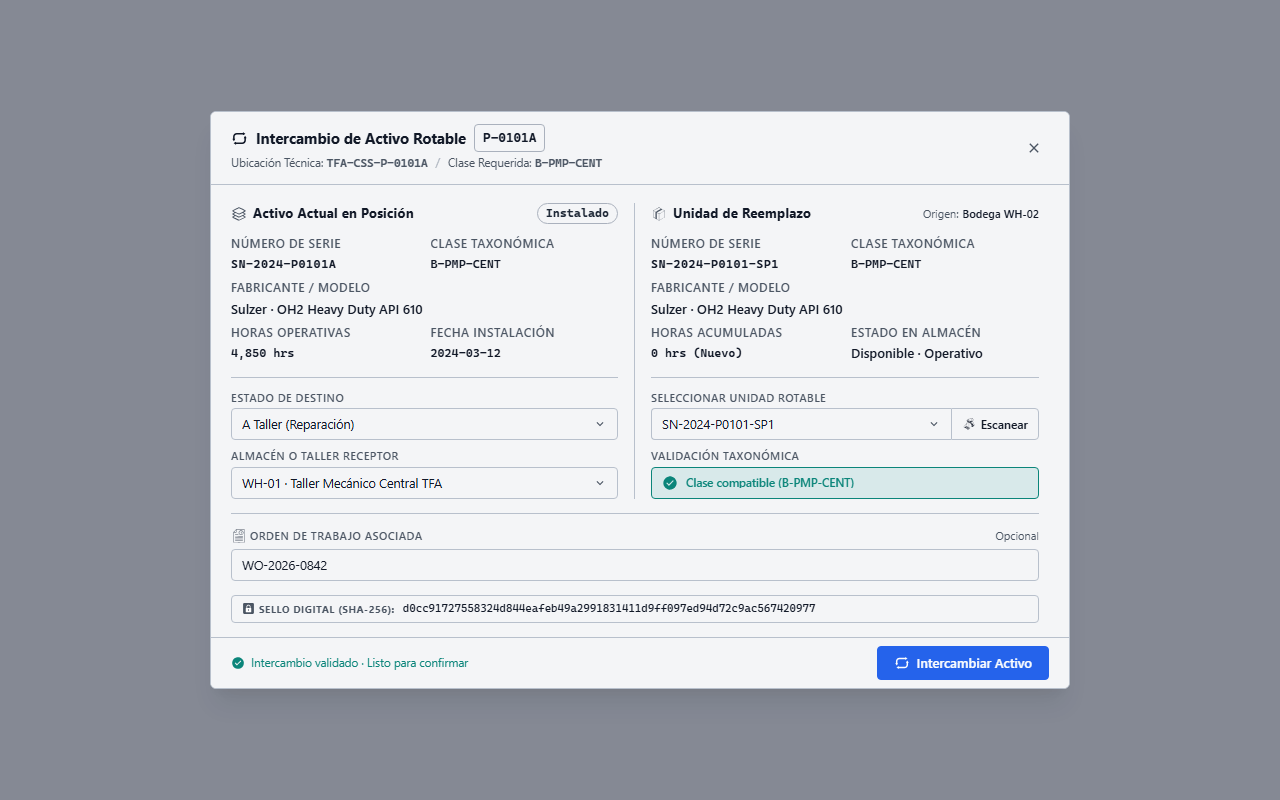
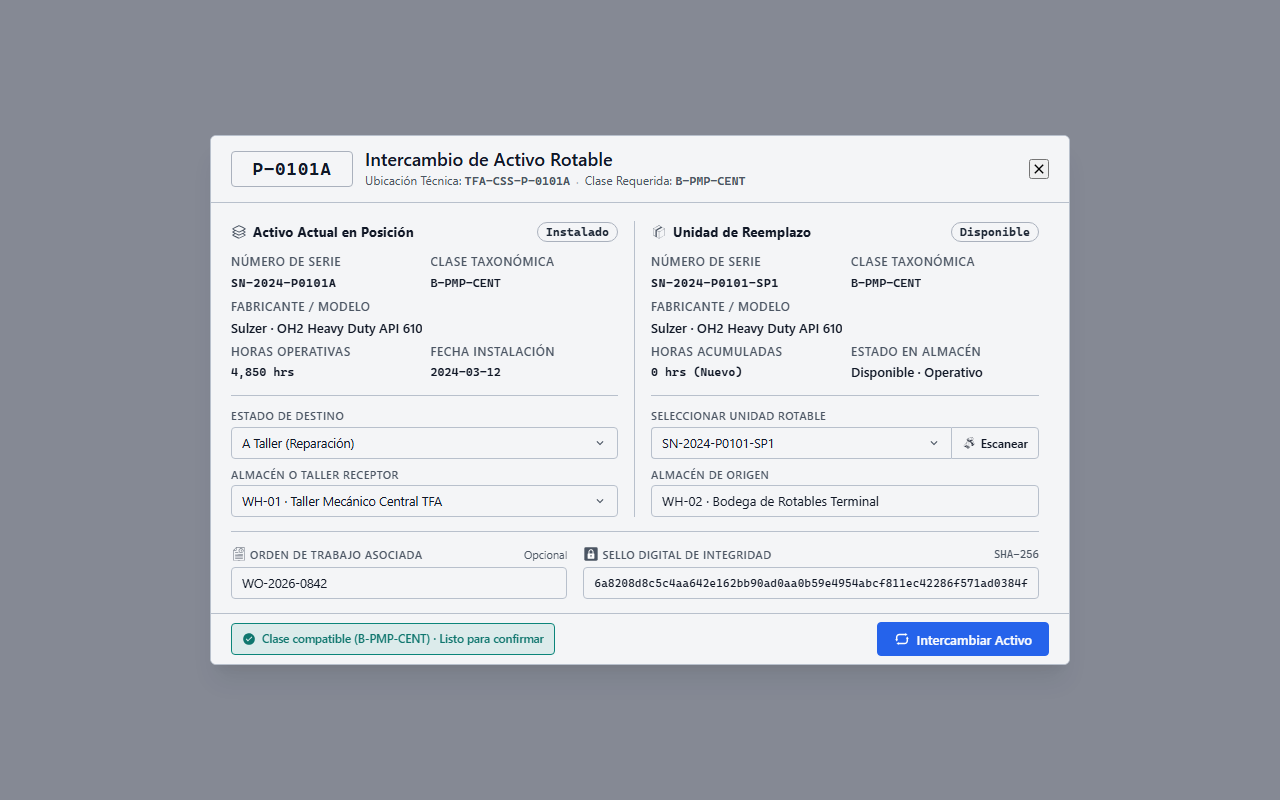
docs(ui-ux): refine SCR-INV-025 spec and sync 1280x800 visual artifacts

Changed region(s): [[0.1562, 0.125, 0.8438, 0.875], [0.6562, 0.25, 0.8125, 0.375]]

diff --git a/ui-ux/screens/inv/SCR-INV-025.md b/ui-ux/screens/inv/SCR-INV-025.md
@@ -39,7 +39,7 @@ status: Stable
 ### 2.1. Rotable Asset Swap Modal (Dark Theme)
 ![SCR-INV-025 Rotable Asset Swap](assets/SCR-INV-025-screenshot.png)
 
-> *Note: Production UI prototype capture illustrating the centered rotable asset swap modal at 1280×800 in Dark Theme. Exhibits the continuous two-column comparative split (Dismounted Asset on the left vs. Replacement Asset on the right with Key-Top / Value-Bottom modular metadata grids), confirmed taxonomic compatibility badge (CMP-06), Work Order linkage (CMP-07), live SHA-256 integrity seal (CMP-08), and primary commit trigger (CMP-09).*
+> *Note: Production UI prototype capture illustrating the centered rotable asset swap modal at 1280×800 in Dark Theme. Exhibits the continuous two-column comparative split (Dismounted Asset on the left vs. Replacement Asset on the right with Key-Top / Value-Bottom modular metadata grids), dual-column auxiliary row with Work Order linkage (CMP-07) and subtle SHA-256 integrity seal (CMP-08), and grounded commit trigger (CMP-09) paired with taxonomic compatibility badge (CMP-06).*
 
 ### 2.2. Rotable Asset Swap Modal (Light Theme)
 ![SCR-INV-025 Rotable Asset Swap Light](assets/SCR-INV-025-light.png)
@@ -54,15 +54,15 @@ status: Stable
 
 | ID | Control / Component | Visual Role / Content | Semantic Token | Architectural Role & Reference |
 | :--- | :--- | :--- | :--- | :--- |
-| `CMP-01` | Modal Container & Header | Modal shell & navigation header | Surface: `--dt-color-surface-card`<br>Border: `--dt-color-border-subtle`<br>Elevation: `--dt-z-modal` | Hosts title ("Intercambio de Activo Rotable"), Functional Location tag, Equipment Class badge, and dismissal control. Operates as a centered modal dialog across workstation and tablet portrait viewports. Detailed in §5.2 and §8. |
+| `CMP-01` | Modal Container & Header | Modal shell & navigation header | Surface: `--dt-color-surface-card`<br>Border: `--dt-color-border-subtle`<br>Elevation: `--dt-z-modal` | Hosts tag headline box (`.tag-headline-box`) on the left, modal title ("Intercambio de Activo Rotable"), technical metadata subtitle ("Ubicación Técnica: TFA-CSS-P-0101A · Clase Requerida: B-PMP-CENT"), and dismissal control. Operates as a centered modal dialog across workstation and tablet portrait viewports. Detailed in §5.2 and §8. |
 | `CMP-02` | Dismounted Asset Card | Currently installed machine card | Surface: `--dt-color-surface-card`<br>Border: None<br>Radius: `--dt-radius-none` | Displays mounted asset details including Status pill (`Instalado`), Serial Number (`Número de serie`), Equipment Class, Manufacturer/Model, Operating Hours, and Installation Date in a 2-column key-value grid symmetrically aligned with `CMP-04`. Hosts mandatory destination controls (`CMP-03`). Detailed in §5.1. |
 | `CMP-03` | Destination Status & Warehouse Controls | Status selector and warehouse picker | Surface: `--dt-color-surface-card`<br>Border: `--dt-color-border-subtle` | Dropdown pair capturing post-dismount destination status (`Estado de Destino`: `A Taller (Reparación)`, `A Almacén (Operativo)`, `Para Baja Técnica`) and target storage warehouse (`Almacén o Taller Receptor`). Blocks submission if left unassigned. Detailed in §5.1, §5.3.2, and §7.2.3. |
-| `CMP-04` | Replacement Asset Card | Replacement rotable picker card | Surface: `--dt-color-surface-card`<br>Border: None<br>Radius: `--dt-radius-none` | Displays replacement equipment specs (Serial Number / `Número de serie`, Equipment Class, Manufacturer/Model, Accumulated Hours, Warehouse Status) row-for-row aligned with `CMP-02`. Hosts clean serial selector dropdown (`CMP-04`), optical scan trigger (`CMP-05`), and taxonomic compatibility badge (`CMP-06`). Detailed in §5.1. |
+| `CMP-04` | Replacement Asset Card | Replacement rotable picker card | Surface: `--dt-color-surface-card`<br>Border: None<br>Radius: `--dt-radius-none` | Displays replacement equipment specs (Serial Number / `Número de serie`, Equipment Class, Manufacturer/Model, Accumulated Hours, Warehouse Status) row-for-row aligned with `CMP-02`. Hosts serial selector dropdown (`CMP-04`), optical scan trigger (`CMP-05`), and read-only origin warehouse display (`Almacén de Origen`). Detailed in §5.1. |
 | `CMP-05` | Barcode / NFC Scan Trigger | Tactile camera/scanner button | Surface: `--dt-color-surface-card`<br>Border: `--dt-color-border-subtle`<br>Touch Target: `--dt-touch-target-mobile` | Activates camera-based barcode scanning or Web NFC reader to instantly select the replacement unit by physical asset barcode tag. Viewfinder overlay includes simulation action button `[Simular Lectura de Código]`. Docked with replacement dropdown in unified addon group. Detailed in §5.2.3 and §7.3. |
-| `CMP-06` | Taxonomic Compatibility Indicator | Real-time validation badge | Dynamic Surface: `--dt-color-surface-card` (neutral), `--dt-color-state-success` (compatible), or `--dt-color-alarm-critical` (incompatible) | Validates that replacement unit matches the exact `EquipmentClassId` of the Functional Location and is currently in warehouse storage status (`Clase compatible (B-PMP-CENT)`). Rejects mismatches (`Incompatible: Clase B-PMP-REC (requiere B-PMP-CENT)`) or unavailable units (`No disponible: Unidad en mantenimiento`). Sized with fixed control height (32px) to prevent layout shifts. Detailed in §5.3.1. |
-| `CMP-07` | Work Order Linkage Field | Optional justifying WO input | Surface: `--dt-color-surface-card`<br>Border: `--dt-color-border-subtle` | Searchable input linking the equipment swap transaction to a justifying work order (`Orden de Trabajo Asociada`), captioned `Opcional`. Detailed in §5.1. |
-| `CMP-08` | Cryptographic Audit Hash Strip | Chained SHA-256 preview strip | Surface: `--dt-color-surface-card`<br>Font: `--dt-font-mono-data`<br>Border: `--dt-color-border-subtle` | Displays real-time generated SHA-256 hash chaining payload, visualizing the immutable cryptographic audit record dispatched with the transaction. Displays `—` (em-dash) when unselected. Detailed in §5.3.3. |
-| `CMP-09` | Atomic Commit Action Button | Primary transactional confirm button | Surface: `--dt-color-state-info`<br>Disabled Surface: `--dt-color-state-disabled` | Primary action `[Intercambiar Activo]`. Coupled with dynamic footer status pill displaying validation state (`Intercambio validado · Listo para confirmar`, `Seleccione estado de destino y almacén receptor`, or `Seleccione unidad de reemplazo y destino del activo actual`). Enforces single-commit atomic execution; disabled until all taxonomic and destination constraints are satisfied. Detailed in §5.3.4. |
+| `CMP-06` | Taxonomic Compatibility Indicator | Real-time validation badge | Dynamic Surface: `--dt-color-surface-card` (neutral), `--dt-color-state-success` (compatible), `--dt-color-alarm-warning` (warning), or `--dt-color-alarm-critical` (incompatible) | Validates that replacement unit matches the exact `EquipmentClassId` of the Functional Location and is currently in warehouse storage status (`Clase compatible (B-PMP-CENT)`). Rejects mismatches (`Incompatible: Clase B-PMP-REC (requiere B-PMP-CENT)`) or unavailable units (`Incompatible: Unidad en mantenimiento`). Grounded directly in the modal footer adjacent to `CMP-09` to serve as the immediate validation gate. Detailed in §5.3.1. |
+| `CMP-07` | Work Order Linkage Field | Optional justifying WO input | Surface: `--dt-color-surface-card`<br>Border: `--dt-color-border-subtle` | Searchable input linking the equipment swap transaction to a justifying work order (`Orden de Trabajo Asociada`), captioned `Opcional`. Arranged side-by-side with `CMP-08` in a 2-column auxiliary grid. Detailed in §5.1. |
+| `CMP-08` | Cryptographic Audit Hash Box | Subtle SHA-256 preview box | Surface: `--dt-color-surface-card`<br>Font: `--dt-font-mono-data`<br>Border: `--dt-color-border-subtle` | Displays real-time generated SHA-256 hash chaining payload in a subtle single-line container (`Sello Digital de Integridad`), visualizing the immutable cryptographic audit record dispatched with the transaction. Displays `—` (em-dash) when unselected. Detailed in §5.3.3. |
+| `CMP-09` | Atomic Commit Action Button | Primary transactional confirm button | Surface: `--dt-color-state-info`<br>Disabled Surface: `--dt-color-state-disabled` | Primary action `[Intercambiar Activo]`. Coupled with adjacent taxonomic validation badge (`CMP-06`). Enforces single-commit atomic execution; disabled until all taxonomic and destination constraints are satisfied. Detailed in §5.3.4. |
 | `CMP-10` | Modal Close & Dismiss Action | Header close icon button and Escape shortcut | Surface: Transparent (`--dt-color-surface-card`)<br>Border: None<br>Color: `--dt-color-text-muted` | Safely dismisses the modal without committing changes, unblocking the host screen without altering database configuration or location links. Detailed in §5.2. |
 
 ---
@@ -71,11 +71,11 @@ status: Stable
 
 | State | Visual Modification in the Interface | Activation Condition |
 | :--- | :--- | :--- |
-| **Normal / Default** | Modal open over backdrop. Dismounted asset details populated with `Instalado` status pill. Destination dropdowns unselected. Replacement asset selector empty. Cryptographic hash strip `CMP-08` displays `—`. Footer status pill displays *"Seleccione unidad de reemplazo y destino del activo actual"*. `CMP-09` is disabled (`--dt-color-state-disabled`). | User triggers "Asset Swap" from Functional Location detail or Work Order panel. |
+| **Normal / Default** | Modal open over backdrop. Dismounted asset details populated with `Instalado` status pill. Destination dropdowns unselected. Replacement asset selector empty. Cryptographic hash box `CMP-08` displays `—`. Footer validation badge `CMP-06` displays *"Esperando selección de activo..."*. `CMP-09` is disabled (`--dt-color-state-disabled`). | User triggers "Asset Swap" from Functional Location detail or Work Order panel. |
 | **Scanning Barcode / NFC** | Modal displays camera viewfinder overlay with scanning reticle and action button *"Simular Lectura de Código"*. Status text: *"Alinee la etiqueta del activo rotable dentro de la retícula..."* | Technician taps `CMP-05` on mobile tablet or workstation with barcode reader. |
-| **Taxonomic Incompatibility (AF-001)** | Replacement asset card highlights with red border (`--dt-color-alarm-critical`). `CMP-06` displays critical badge: *"Incompatible: Clase B-PMP-REC (requiere B-PMP-CENT)"* or *"No disponible: Unidad en mantenimiento"*. `CMP-09` is hard-disabled. | Selected replacement equipment does not share identical `EquipmentClassId` or is not available in warehouse (`AF-001`). |
-| **Incomplete Destination (AF-002)** | Destination fields in `CMP-03` highlight with amber focus outline (`--dt-color-alarm-warning`) and warning icon `#icon-warning`. Footer status pill indicates: *"Seleccione estado de destino y almacén receptor"*. | User attempts to confirm swap without selecting destination status or warehouse (`AF-002`). |
-| **Ready for Execution** | All fields valid. `CMP-06` displays Teal badge: *"Clase compatible (B-PMP-CENT)"*. Hash strip `CMP-08` displays valid SHA-256 preview. Footer status pill displays *"Intercambio validado · Listo para confirmar"*. `CMP-09` becomes active. | Valid replacement asset selected + dismounted asset destination selected + WO linked. |
+| **Taxonomic Incompatibility (AF-001)** | Replacement asset card highlights with red border (`--dt-color-alarm-critical`). Footer validation badge `CMP-06` displays critical alert: *"Incompatible: Clase B-PMP-REC (requiere B-PMP-CENT)"* or *"Incompatible: Unidad en mantenimiento"*. `CMP-09` is hard-disabled. | Selected replacement equipment does not share identical `EquipmentClassId` or is not available in warehouse (`AF-001`). |
+| **Incomplete Destination (AF-002)** | Destination fields in `CMP-03` highlight with amber focus outline (`--dt-color-alarm-warning`) and warning icon `#icon-warning`. Footer validation badge `CMP-06` indicates: *"Seleccione estado de destino y almacén receptor"*. | User attempts to confirm swap without selecting destination status or warehouse (`AF-002`). |
+| **Ready for Execution** | All fields valid. `CMP-06` displays Teal badge: *"Clase compatible (B-PMP-CENT) · Listo para confirmar"*. Hash box `CMP-08` displays valid SHA-256 preview. `CMP-09` becomes active. | Valid replacement asset selected + dismounted asset destination selected + WO linked. |
 | **Executing Atomic Commit** | `CMP-09` renders loading shimmer (`--dt-color-surface-raised`) with label *"Procesando intercambio de activo..."*. All form inputs disabled to prevent duplicate submissions. | User taps `[Intercambiar Activo]`. |
 | **Swap Completed (Success)** | Modal transitions to success checkmark animation (`--dt-color-state-success`), displays transaction summary titled *"Intercambio de Activo Completado Exitosamente"* with new installation ID, then automatically closes after $1.5\text{s}$. | Atomic database transaction commits successfully in $< 2\text{s}$ (`NFR-597`). |
 | **Offline Queued / Disconnected Execution** | Modal renders amber offline strip (`--dt-color-alarm-warning`) in header: *"MODO SIN CONEXIÓN — EL INTERCAMBIO SE ENCOLARÁ EN EL DISPOSITIVO"*. Success checkmark animates with Outbox sync icon (`#icon-sync-pending`) and title *"Modo Sin Conexión — Intercambio Guardado Localmente"*. Modal dismisses after $1.5\text{s}$; parent view displays incremented pending sync badge. | User confirms swap while industrial tablet is disconnected from network (`TR-007`). Operation is committed to local encrypted outbox storage. |
@@ -380,9 +380,9 @@ public record AssetSwapCompletedEvent(
 
 | Viewport / Breakpoint | Layout Organization | Ergonomic Rules |
 | :--- | :--- | :--- |
-| **Desktop Workstation**<br>($\ge 1920\text{px}$, `--dt-breakpoint-xl`) | Centered modal dialog (sized by `--dt-layout-modal-width-desktop`, max-height `--dt-layout-modal-max-height`); dual-column horizontal split (`CMP-02` Dismounted Asset on the left, `CMP-04` Replacement Asset on the right, separated by a vertical hairline divider `--dt-color-border-subtle`). Metadata fields are row-for-row level-aligned (Serial / `Número de serie` vs. `Número de serie`, Class vs. Class, Model vs. Model, Hours vs. Hours). Dropdowns and validation badges (`CMP-03`, `CMP-05`, `CMP-06`) sit symmetrically below the metadata grids. Followed by full-width Work Order linkage (`CMP-07` `Orden de Trabajo Asociada`), SHA-256 preview strip (`CMP-08`), and grounded modal footer (`CMP-09` `[Intercambiar Activo]`). | Mouse click interaction; `Tab` key focus cycling; `Enter` to commit; `Escape` or header close icon (`CMP-10`) to dismiss. Fixed control heights eliminate content layout shifts (CLS). |
-| **Industrial Tablet Landscape**<br>($1280\text{px} - 1919\text{px}$, `--dt-breakpoint-lg`) | Centered modal container (sized by `--dt-layout-modal-width-desktop` / `--dt-layout-modal-width-tablet`); preserves the dual-column side-by-side comparison (`CMP-02` vs. `CMP-04`) with stacked 2-column Key-Top / Value-Bottom metadata cells so all `CMP-01`–`CMP-09` elements fit without vertical clipping or height shifts. | Gloved touch targets governed by `--dt-touch-target-mobile` with `--dt-space-2` separation; prominent barcode scan trigger (`CMP-05`); header close icon (`CMP-10`) dismisses. |
-| **Industrial Tablet Portrait**<br>($768\text{px} - 1279\text{px}$, `--dt-breakpoint-md`) | Centered modal container (sized by `--dt-layout-modal-width-tablet`, max-height `--dt-layout-modal-max-height`); single-column vertical stack (`CMP-02`/`CMP-03` stacked above `CMP-04`/`CMP-06`, `CMP-07`, and `CMP-08`) separated by edge-to-edge horizontal dividers (`--dt-color-border-subtle`). | Gloved touch targets governed by `--dt-touch-target-mobile` with `--dt-space-2` separation; sticky modal footer (`CMP-09` `[Intercambiar Activo]`) permanently visible; header close icon (`CMP-10`) cancels. |
+| **Desktop Workstation**<br>($\ge 1920\text{px}$, `--dt-breakpoint-xl`) | Centered modal dialog (sized by `--dt-layout-modal-width-desktop`, max-height `--dt-layout-modal-max-height`); dual-column horizontal split (`CMP-02` Dismounted Asset on the left, `CMP-04` Replacement Asset on the right, separated by a vertical hairline divider `--dt-color-border-subtle`). Metadata fields are row-for-row level-aligned (Serial / `Número de serie` vs. `Número de serie`, Class vs. Class, Model vs. Model, Hours vs. Hours). Dropdowns sit symmetrically below the metadata grids (`CMP-03` on the left, `CMP-04`/`CMP-05` and Origin Warehouse on the right). Followed by dual-column auxiliary grid (`.aux-dual-grid`) for Work Order linkage (`CMP-07` `Orden de Trabajo Asociada`) and subtle SHA-256 integrity seal (`CMP-08`), and grounded modal footer (`CMP-09` `[Intercambiar Activo]` paired with taxonomic validation badge `CMP-06`). | Mouse click interaction; `Tab` key focus cycling; `Enter` to commit; `Escape` or header close icon (`CMP-10`) to dismiss. Fixed control heights eliminate content layout shifts (CLS). |
+| **Industrial Tablet Landscape**<br>($1280\text{px} - 1919\text{px}$, `--dt-breakpoint-lg`) | Centered modal container (sized by `--dt-layout-modal-width-desktop` / `--dt-layout-modal-width-tablet`); preserves the dual-column side-by-side comparison (`CMP-02` vs. `CMP-04`) with stacked 2-column Key-Top / Value-Bottom metadata cells and 2-column auxiliary grid so all `CMP-01`–`CMP-10` elements fit without vertical clipping or height shifts. | Gloved touch targets governed by `--dt-touch-target-mobile` with `--dt-space-2` separation; prominent barcode scan trigger (`CMP-05`); header close icon (`CMP-10`) dismisses. |
+| **Industrial Tablet Portrait**<br>($768\text{px} - 1279\text{px}$, `--dt-breakpoint-md`) | Centered modal container (sized by `--dt-layout-modal-width-tablet`, max-height `--dt-layout-modal-max-height`); single-column vertical stack (`CMP-02`/`CMP-03` stacked above `CMP-04`, followed by stacked auxiliary fields `CMP-07` and `CMP-08`) separated by edge-to-edge horizontal dividers (`--dt-color-border-subtle`). | Gloved touch targets governed by `--dt-touch-target-mobile` with `--dt-space-2` separation; sticky modal footer (`CMP-09` `[Intercambiar Activo]` paired with `CMP-06`) permanently visible; header close icon (`CMP-10`) cancels. |
 
 ---
 
